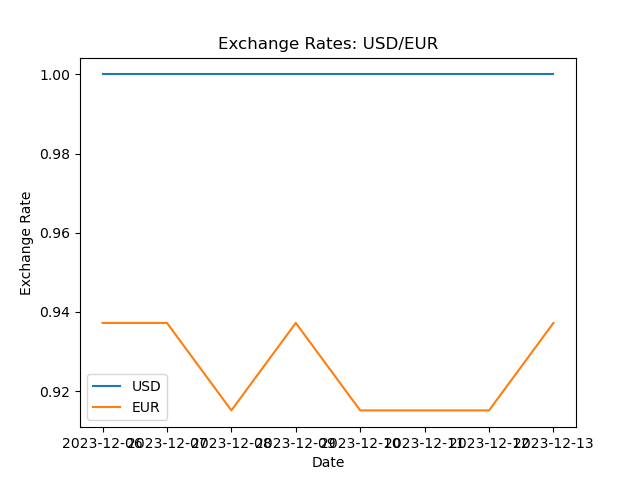
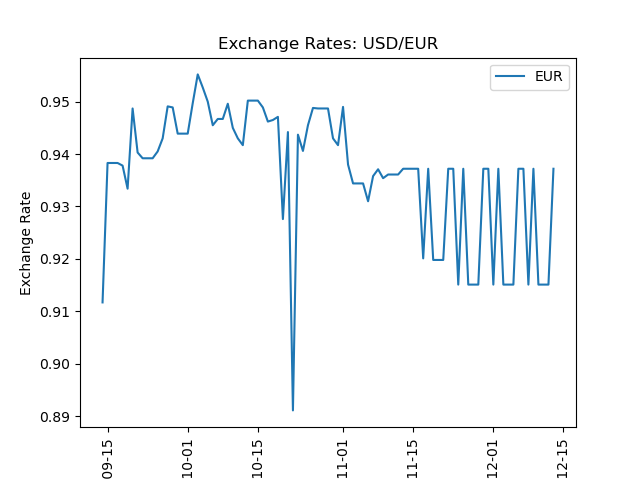
tying up loose ends

diff --git a/templates/index.html b/templates/index.html
@@ -31,23 +31,5 @@
         <p>
             Placeholder for horizontally placed graphs of 3 random exchange rates from USD
         </p>
-    
-            <!-- Placeholder for horizontally placed graphs -->
-            <div class="container">
-                <div class="row">
-                    <div class="col-sm-4">
-                        <!-- Graph 1 content goes here -->
-                        <img src="path_to_graph_image1.jpg" alt="Graph 1">
-                    </div>
-                    <div class="col-sm-4">
-                        <!-- Graph 2 content goes here -->
-                        <img src="path_to_graph_image2.jpg" alt="Graph 2">
-                    </div>
-                    <div class="col-sm-4">
-                        <!-- Graph 3 content goes here -->
-                        <img src="path_to_graph_image3.jpg" alt="Graph 3">
-                    </div>
-                </div>
-            </div>
     </div>
 {% endblock content %}

diff --git a/templates/plots.html b/templates/plots.html
@@ -1,3 +1,14 @@
+<!--
+Course: CST205-01_FA23: Multimedia Design & Progmng
+Title: Currency Exchanage Project
+Abstract: User selects 2 currencies in which the exchange rate is plot in the last 30 days. 
+          Not all days have datapoints so the graph may not be smooth.
+          Disclaimer: The API only have history as an endpoint for major currencies, namely USD and EUR
+          ****Please be patient as the graph can take a while to load.****
+Author: Rakery Cheng
+Date: 12/13/23
+-->
+
 {% extends 'base.html' %}
 
 {% block title %}Select Currencies - Plots{% endblock title %}

diff --git a/index.py b/index.py
@@ -68,9 +68,6 @@ def rates():
         flash('There was a problem retrieving the exchange rates.', 'error')
         return redirect(url_for('exchangeRates'))
 
-def generate_plot():
-    # No plot for now, return an empty string
-    return ''
 
 @app.route('/')
 def index():
@@ -80,9 +77,7 @@ import pandas as pd
 import matplotlib.pyplot as plt
 from datetime import datetime, timedelta
 
-from forex_python.converter import CurrencyRates, RatesNotAvailableError
-
-from flask import request
+from forex_python.converter import RatesNotAvailableError
 
 def get_exchange_rate_with_fallback(c, currency_from, currency_to, date):
     max_retries = 3
@@ -107,7 +102,7 @@ def plot():
         currency2 = request.form.get('currency2')
 
         end_date = datetime.now()
-        start_date = end_date - timedelta(days=7)  # Set the start date as 7 days
+        start_date = end_date - timedelta(days=90)  # Set the start date as 30 days
 
         # Generate a date range using pandas
         date_range = pd.date_range(start=start_date, end=end_date, freq='D')  # 'D' means daily frequency
@@ -143,13 +138,16 @@ def plot():
         df['date'] = pd.to_datetime(df['date'])
 
         # Plot the exchange rates
-        plt.plot(df['date'], df[currency1], label=currency1)
+        # plt.plot(df['date'], df[currency1], label=currency1)
         plt.plot(df['date'], df[currency2], label=currency2)
 
         # Add labels and title to the plot
         plt.xlabel('Date')
         plt.ylabel('Exchange Rate')
         plt.title(f'Exchange Rates: {currency1}/{currency2}')
+
+        # Rotate the date labels by 45 degrees
+        plt.xticks(rotation=90)
 
         # Add a legend to the plot
         plt.legend()

diff --git a/README.md b/README.md
@@ -30,3 +30,4 @@
 ## Future work
 - The incorporation of historical exchange rates graphing is underway.
   This feature will provide users with visual representations of currency performance over time.
+- Plots are talking a while to load as gprah spans over 90 days of datapoints. The plotting feature also limited as the API used only have historical data (which can be downloaded as csv files) on certain main currencies so given more time, another, more efficient API what a more vast datapool would be ideally found and used.
